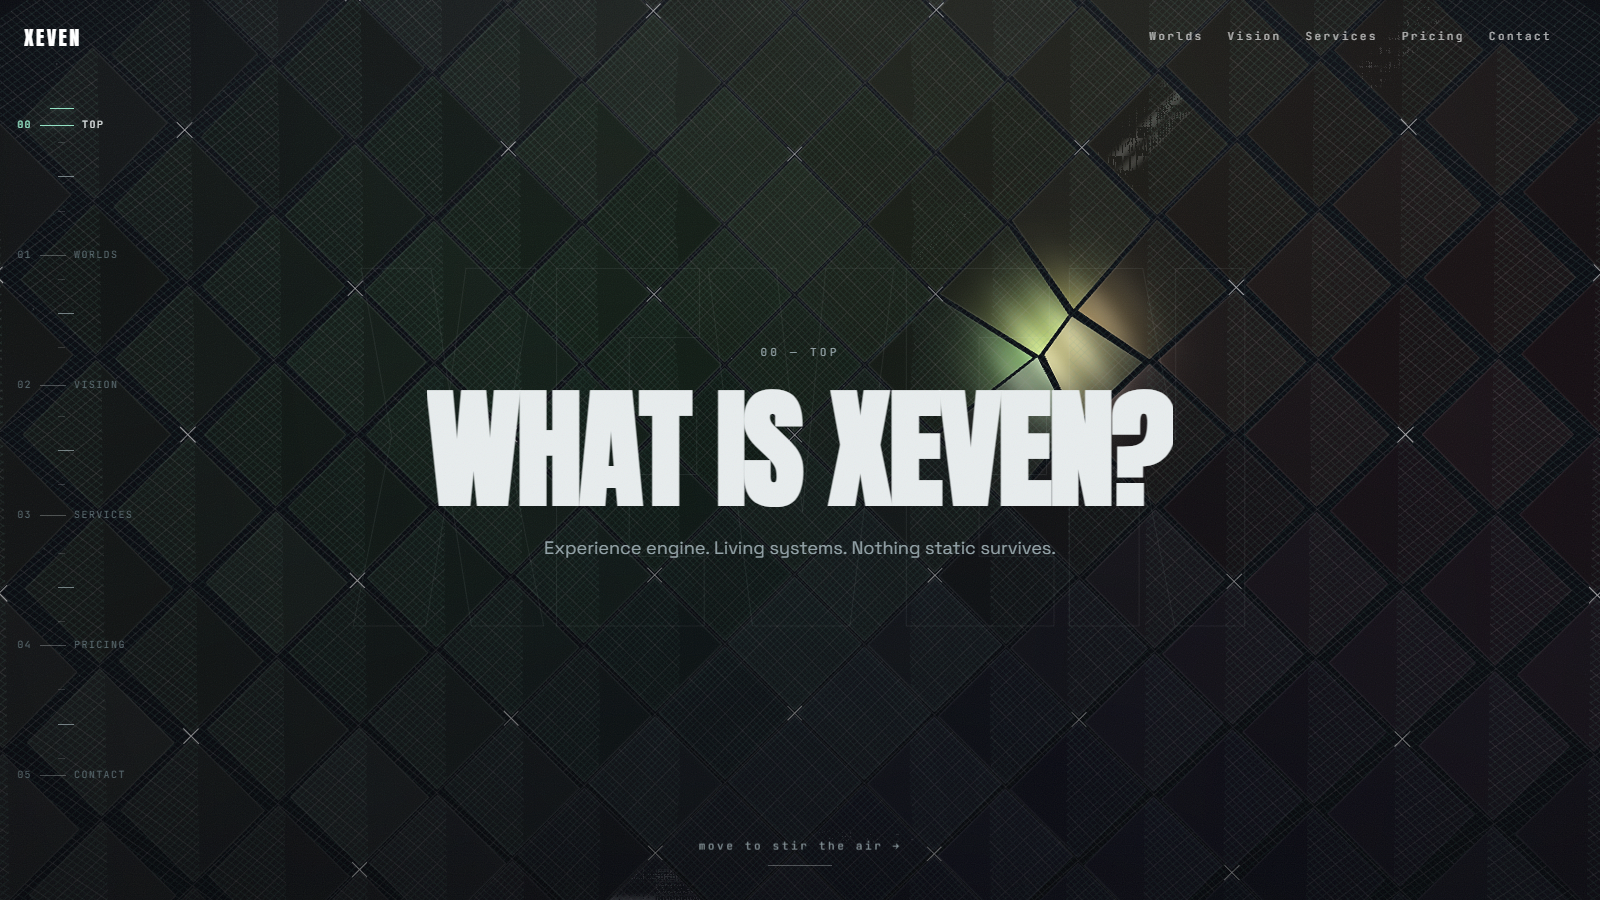
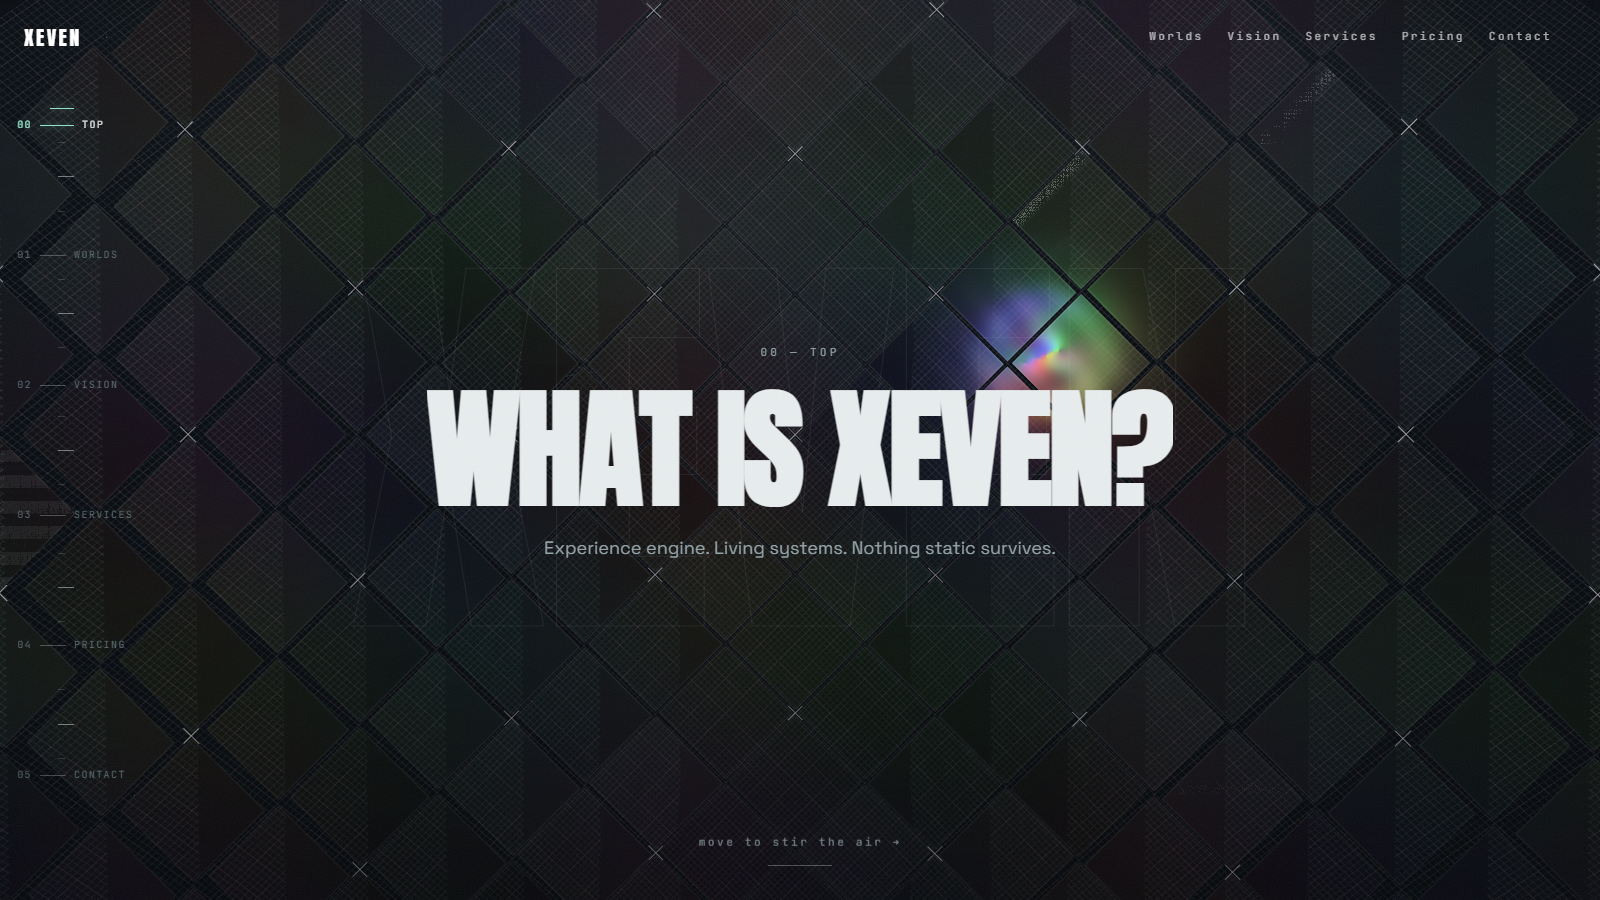
Liquid glass only, diamonds parked

diff --git a/src/components/VoidWorld.tsx b/src/components/VoidWorld.tsx
@@ -208,26 +208,14 @@ export default function VoidWorld() {
         varying float vSeed;
         varying float vQI;
         varying float vQJ;
-        uniform vec3 uTrail[5];
-        uniform vec2 uWakeVel;
         void main() {
           vUv = uv;
           vSeed = aSeed;
           vQI = aQI;
           vQJ = aQJ;
+          // diamonds never move — the cursor bends no geometry. All
+          // liquid lives in the glass (fragment), positions stay parked.
           vec4 wp = modelMatrix * instanceMatrix * vec4(position, 1.0);
-          // fingertip air: the head + its short trail bend the medium at
-          // touch scale (σ≈0.8u), gated by damped speed — dead at rest.
-          // No body, no glow, no trail geometry; only the bend reads.
-          float wspd = min(1.0, length(uWakeVel) * 0.35);
-          vec2 bend = vec2(0.0);
-          for (int i = 0; i < 5; i++) {
-            vec2 tdir = wp.xy - uTrail[i].xy;
-            float td = length(tdir);
-            float tfall = exp(-td * td / 1.3);
-            bend -= (tdir / max(td, 1e-3)) * (tfall * uTrail[i].z * 0.25);
-          }
-          wp.xy += bend * wspd;
           vWorld = wp.xyz;
           gl_Position = projectionMatrix * viewMatrix * wp;
         }
@@ -268,9 +256,24 @@ export default function VoidWorld() {
           // presence where the medium bends — alive with a slow shimmer,
           // visible, never prominent
           float wspd = min(1.0, length(uWakeVel) * 0.35);
-          float air = 0.0;
+          // liquid glass: a rotational + radial ripple around each trail
+          // tap warps the glass lookups below — the diamonds stay parked,
+          // only the tint and air flow. Gated by speed: dead at rest.
+          vec2 flow = vec2(0.0);
           for (int i = 0; i < 5; i++) {
-            vec2 adp = vWorld.xy - uTrail[i].xy;
+            vec2 ldp = vWorld.xy - uTrail[i].xy;
+            float ld = length(ldp);
+            float lfall = exp(-ld * ld / 2.6) * uTrail[i].z;
+            vec2 ldir = ldp / max(ld, 1e-3);
+            vec2 swirl = vec2(-ldir.y, ldir.x);
+            float ripple = sin(ld * 6.0 - uTime * 7.0) * 0.5 + 0.5;
+            flow += (swirl * 0.35 + ldir * (ripple - 0.5) * 0.3) * lfall;
+          }
+          flow *= wspd;
+          float air = 0.0;
+          vec2 wpos = vWorld.xy + flow * 0.5;
+          for (int i = 0; i < 5; i++) {
+            vec2 adp = wpos - uTrail[i].xy;
             air += exp(-dot(adp, adp) / 1.3) * uTrail[i].z;
           }
           float breathe = 0.85 + 0.15 * sin(uTime * 6.0 + vWorld.x * 8.0 + vWorld.y * 6.0);
@@ -280,10 +283,11 @@ export default function VoidWorld() {
           // motion), stirred brighter under the pointer. Never white,
           // never loud: visible but not prominent.
           float tt = uTime * uDrift;
+          vec2 gpos = vWorld.xy * 0.35 + flow;
           vec3 theme = vec3(
-            0.5 + 0.5 * sin(vQI * 0.45 + tt * 0.15),
-            0.5 + 0.5 * sin(vQJ * 0.45 + tt * 0.12 + 2.1),
-            0.5 + 0.5 * sin((vQI + vQJ) * 0.3 + tt * 0.1 + 4.2));
+            0.5 + 0.5 * sin(gpos.x * 2.1 + tt * 0.15),
+            0.5 + 0.5 * sin(gpos.y * 2.3 + tt * 0.12 + 2.1),
+            0.5 + 0.5 * sin((gpos.x + gpos.y) * 1.6 + tt * 0.1 + 4.2));
           theme = mix(vec3(0.35), theme, 0.55);
           col += theme * uThemeAmt * (0.6 + air * 1.6) * uShowcase;
           // roaming cinema: sparse panels on a 7s clock

diff --git a/backlog.md b/backlog.md
@@ -63,4 +63,5 @@ Scope frozen: map-only phase found zero blank routes, zero dead links, zero cons
 - [x] Reel declutter: white veil wash + letterbox bars fully removed (timeline, elements, CSS, reduced rules) — the orbit now floats pure on the diamond field with ghost + counter only. Verified: build green, 3 pre-existing warnings, Edge 0 errors / 0 overflow. Frame VISUALLY VERIFIED (clean dark orbit, no wash, no bars). Evidence: refreshed g4.
 - [x] Blob streaks removed (cursor line gone, kindle glow kept): excised the 110-particle streak system from VOIDWORLD — geometry, projector math, per-frame particle sim, debug toggle — while preserving the eased finger/echo feed, stir/bloom/velocity uniforms and the quad-shader kindle. The field still breathes light around the pointer; no line, streak, or shape ever chases it now. Verified: build green, tsc clean, 3 pre-existing warnings, Edge 0 errors / 0 overflow on a mouse-sweep pass, hero frame shows zero trailing geometry. Evidence: refreshed g0 in verify/world/.
 - [x] Five-act index (A–F execution): trimmed to TOP → CAPABILITIES → PROCESS → SHOWREEL → DEPARTURE — manifesto pin/scrub, stats/counters/rules, tiers/TierCard deleted with all tweens (178 lines out); tb-logo return retargeted to foot; rail + camera journey 8→5 stops. (B) TopBar invisible on index (rail owns nav; returns on subpages). Rail rebuilt as survey instrument: always-on labels, 10px type, glowing active tick, end-cap brackets, progress hairline. (C) Fan-deck THROW: deck materializes behind the mark, cards toss on curved paths (linear x × eased y) unwinding rotation and blooming scale into slots. (D) Showreel STAGE: pinned fullscreen takes assembling/yielding through the frame (single timeline owns all cell opacity/scale); X slide-cover kept as the door (fits the bridge); counter intact. (E) Cursor stripped to one crisp 1:1 dot (ring/dot/trail gone, difference-blend kept); intro tightened 3.3s→1.9s (fast burn, ember kiss, SIGNAL/WORLD/LIVE ledger). Verified: builds green throughout, 3 pre-existing warnings, Edge 0 errors / 0 overflow, 5 rail stops from 00 TOP, dead sections absent, 1 dot 0 rings, 5 cells staged. Frames VISUALLY VERIFIED (instrument rail, thrown card + ghost 01, ember rows + node + black X). Evidence: verify/world/d4-world.json + refreshed g0/g1/g2.
+- [x] Liquid glass only, diamonds parked: vertex bend deleted (positions/borders never move); cursor now drives a rotational + radial ripple that domain-warps the RGB tint and air lookups — the glass flows, the diamonds stay. Speed-gated to dead-at-rest. Verified: builds green, Edge 0 errors / 0 overflow, 60fps. Probe frames VISUALLY VERIFIED (mid-motion glass churning along path over crisp parked diamonds; settled field calm). Evidence: verify/world/probe-liquid.png + probe-settled.png.
 - [x] RGB diamond themes (film fully reversed): burst + face commits reverted (footage, capture rig, mosaic code, assets all gone); each diamond now takes a channel-dominant RGB tint from grid position with slow phase drift (frozen under reduced motion), stirred brighter under the pointer via the air term; tuned 0.14→0.22 after the first frame read too quiet. Verified: builds green, Edge 0 errors / 0 overflow. Frame VISUALLY VERIFIED (green→red→violet diamonds, title clean, wake stir glowing). Evidence: verify/world/d4-world.json + g0.
